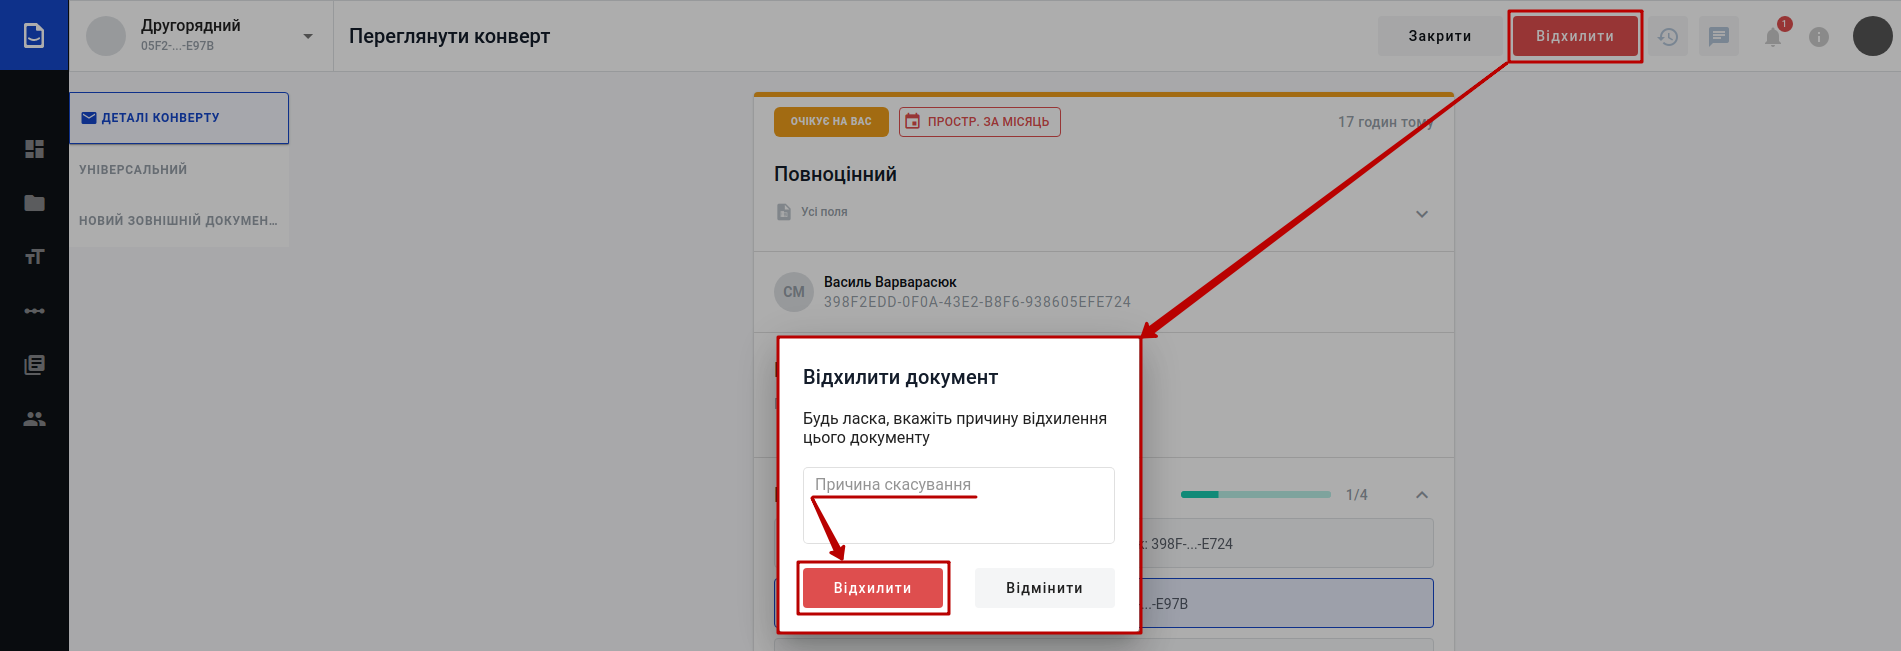
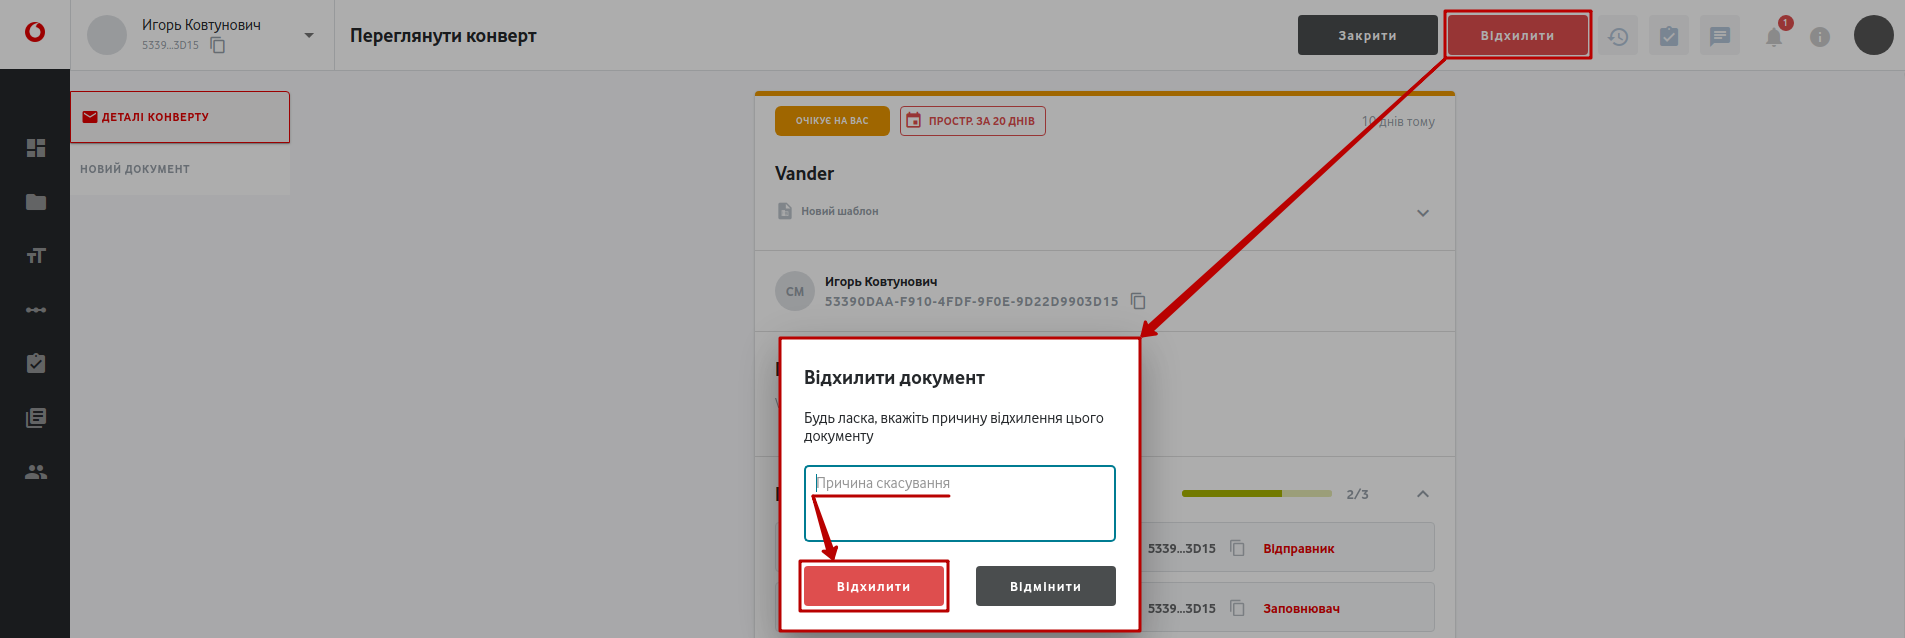
VD

diff --git a/docs/VodafoneDoc/WD_Instructions/WD_user_profile.rst b/docs/VodafoneDoc/WD_Instructions/WD_user_profile.rst
@@ -3,9 +3,9 @@
 
 .. есть картинки с главной инструкции сервиса
 
-.. |accept| image:: pics_WD_user_profile/WD_user_profile_036.png
+.. |accept| image:: pics_VD_user_profile/VD_user_profile_036.png
 
-.. |denied| image:: pics_WD_user_profile/WD_user_profile_035.png
+.. |denied| image:: pics_VD_user_profile/VD_user_profile_035.png
 
 .. role:: red
 
@@ -36,10 +36,10 @@ WEB сервісом підтримуються **Google Chrome** та **Safari*
 
 Для налаштування користувацького профілю потрібно клікнути лівою кнопкою мишки на іконку користувача та обрати **"Профіль користувача"** (`налаштування панелі адміністратора <https://wiki.edin.ua/uk/latest/VodafoneDoc/WD_Instructions/WD_admin_panel.html>`__ описані в окремій інструкції):
 
-.. image:: pics_WD_user_profile/WD_user_profile_002.png
+.. image:: pics_VD_user_profile/VD_user_profile_002.png
    :align: center
 
-.. image:: pics_WD_user_profile/WD_user_profile_003.png
+.. image:: pics_VD_user_profile/VD_user_profile_003.png
    :align: center
 
 Після чого відкривається **"Інформація профілю"**, поділена на 4 вкладки: **"Налаштування"** / **"Запрошення"** / **"Сповіщення"** / **"Небезпечна зона"** (за замовчуванням відображається вкладка "Налаштування").
@@ -49,7 +49,7 @@ WEB сервісом підтримуються **Google Chrome** та **Safari*
 **1.1 Налаштування**
 -----------------------------------------------
 
-.. image:: pics_WD_user_profile/WD_user_profile_004.png
+.. image:: pics_VD_user_profile/VD_user_profile_004.png
    :align: center
 
 В **"Налаштуваннях"** відображаються:
@@ -58,15 +58,15 @@ WEB сервісом підтримуються **Google Chrome** та **Safari*
 * **Налаштування паролю** - блок, що дозволяє **"Змінити пароль"** даного користувача, проставивши відповідну відмітку та вказавши поточний та новий пароль (з підтвердженням).
 * **Реєстрація** - блок, що дозволяє користувачу **"Зареєструвати особистий акаунт"** чи **"Зареєструвати акаунт компанії"** (детальніше про особливості `реєстрації в сервісі VodafoneDoc <https://wiki.edin.ua/uk/latest/VodafoneDoc/WD_Instructions/WD_registration.html>`__). Натиснувши відповідні кнопки можливо зареєструвати акаунт, погодившись в pop-up вікні з правилами та умовами користування сервісом та політикою конфіденційності (для акаунта компанії потрібно додатково ввести ІПН та назву мейлбокса):
 
-.. image:: pics_WD_user_profile/WD_user_profile_006.png
+.. image:: pics_VD_user_profile/VD_user_profile_006.png
    :align: center
 
-.. image:: pics_WD_user_profile/WD_user_profile_007.png
+.. image:: pics_VD_user_profile/VD_user_profile_007.png
    :align: center
 
 Всі зміни внесені у вкладці можливо **"Зберегти"** чи **"Відмінити"**:
 
-.. image:: pics_WD_user_profile/WD_user_profile_005.png
+.. image:: pics_VD_user_profile/VD_user_profile_005.png
    :align: center
 
 .. _invite:
@@ -76,12 +76,12 @@ WEB сервісом підтримуються **Google Chrome** та **Safari*
 
 У вкладці відображаються активні запрошення до мейлбокса чи аккаунта інших користувачів сервісу (запрошення відправляються з `"Панелі адміністратора" - Користувачі <https://wiki.edin.ua/uk/latest/VodafoneDoc/WD_Instructions/WD_admin_panel.html#users>`__), що потребують рішення:
 
-.. image:: pics_WD_user_profile/WD_user_profile_030.png
+.. image:: pics_VD_user_profile/VD_user_profile_030.png
    :align: center
 
 Користувач може **Прийняти** |accept| чи **Відхилити** |denied| запрошення з указаного акаунта. Після того, як користувач прийме запрошення у нього відкриється доступ до стороннього акаунта чи мейлбокса з визначеними налаштуваннями:
 
-.. image:: pics_WD_user_profile/WD_user_profile_031.png
+.. image:: pics_VD_user_profile/VD_user_profile_031.png
    :align: center
 
 .. _notifications:
@@ -89,7 +89,7 @@ WEB сервісом підтримуються **Google Chrome** та **Safari*
 **1.3 Сповіщення**
 -----------------------------------------------
 
-.. image:: pics_WD_user_profile/WD_user_profile_034.png
+.. image:: pics_VD_user_profile/VD_user_profile_034.png
    :align: center
 
 У вкладці відображаються налаштування сповіщень **по електронній пошті** та **у системі**, що розбиті на наступні групи:
@@ -157,12 +157,12 @@ WEB сервісом підтримуються **Google Chrome** та **Safari*
 
 **Небезпечна зона** - налаштування, що стосуються радикальних змін і в даному випадку ведуть до видалення конкретного користувача з сервісу VodafoneDoc.
 
-.. image:: pics_WD_user_profile/WD_user_profile_037.png
+.. image:: pics_VD_user_profile/VD_user_profile_037.png
    :align: center
 
 Дія видалення потребує підтвердження:
 
-.. image:: pics_WD_user_profile/WD_user_profile_038.png
+.. image:: pics_VD_user_profile/VD_user_profile_038.png
    :align: center
 
 Можливо зберегти акаунт та всі мейлбокси, поставивши відмітку у цьому вікні.

diff --git a/docs/VodafoneDoc/WD_Instructions/WD_admin_panel.rst b/docs/VodafoneDoc/WD_Instructions/WD_admin_panel.rst
@@ -47,7 +47,7 @@ WEB сервісом підтримуються **Google Chrome** та **Safari*
 
 ----------------------------------------------------
 
-Для проведення адміністративних налаштувань на рівні акаунта потрібно клікнути лівою кнопкою мишки на іконку користувача та обрати **"Панель адміністратора"** (`налаштування профілю користувача <https://wiki.edin.ua/uk/latest/VodafoneDoc/WD_Instructions/WD_user_profile.html>`__ описані в окремій інструкції):
+Для проведення адміністративних налаштувань на рівні акаунта потрібно клікнути лівою кнопкою мишки на іконку користувача та обрати **"Панель адміністратора"** (`налаштування профілю користувача <https://wiki.edin.ua/uk/latest/VodafoneDoc/WD_Instructions/VD_user_profile.html>`__ описані в окремій інструкції):
 
 .. image:: pics_WD_admin_panel/WD_admin_panel_001.png
    :align: center
@@ -289,7 +289,7 @@ WEB сервісом підтримуються **Google Chrome** та **Safari*
 .. image:: pics_WD_admin_panel/WD_admin_panel_027.png
    :align: center
 
-Якщо користувач, якого запросили уже користується сервісом, то йому згідно його налаштувань (ПОСИЛАННЯ) в сервіс VodafoneDoc надійде повідомлення та email, а саме запрошення буде відображатись в Інформації профілю (вкладка `Запрошення <https://wiki.edin.ua/uk/latest/VodafoneDoc/WD_Instructions/WD_user_profile.html#invite>`__):
+Якщо користувач, якого запросили уже користується сервісом, то йому згідно його налаштувань (ПОСИЛАННЯ) в сервіс VodafoneDoc надійде повідомлення та email, а саме запрошення буде відображатись в Інформації профілю (вкладка `Запрошення <https://wiki.edin.ua/uk/latest/VodafoneDoc/WD_Instructions/VD_user_profile.html#invite>`__):
 
 .. image:: pics_WD_admin_panel/WD_admin_panel_029.png
    :align: center
@@ -597,7 +597,7 @@ WEB сервісом підтримуються **Google Chrome** та **Safari*
    :align: center
 
 .. attention::
-   Видалений мейлбокс не можливо відновити. Мейлбокс зникає зі списку і якщо користувач спробує використати видалений мейлбокс, то він отримає 410 помилку і буде перенаправлений на інший мейлбокс, до якого він має доступ. Якщо користувач не має доступу до будь-якого іншого мейлбокса, то він буде переспрямований у `профіль користувача <https://wiki.edin.ua/uk/latest/VodafoneDoc/WD_Instructions/WD_user_profile.html>`__. 
+   Видалений мейлбокс не можливо відновити. Мейлбокс зникає зі списку і якщо користувач спробує використати видалений мейлбокс, то він отримає 410 помилку і буде перенаправлений на інший мейлбокс, до якого він має доступ. Якщо користувач не має доступу до будь-якого іншого мейлбокса, то він буде переспрямований у `профіль користувача <https://wiki.edin.ua/uk/latest/VodafoneDoc/WD_Instructions/VD_user_profile.html>`__. 
 
 **5 Інтеграції**
 ================================================

diff --git a/docs/VodafoneDoc/WD_Instructions/Work_with_Envelope.rst b/docs/VodafoneDoc/WD_Instructions/Work_with_Envelope.rst
@@ -136,12 +136,7 @@ WEB сервісом підтримуються **Google Chrome** та **Safari*
 **3 Відхилення конверта**
 ================================================
 
-Відправлений конверт в статусі "В обробці" чи "Очікує на вас" (на стороні поточного заповнювача/підписанта) можливо **"Відхилити"**:
-
-.. image:: pics_Work_with_Envelope/Work_with_Envelope_013.png
-   :align: center
-
-Для відхилення конверта обов'язково потрібно вказати причину відхилення і підтвердити відхилення:
+Відправлений конверт в статусі "В обробці" чи "Очікує на вас" (на стороні поточного заповнювача/підписанта) можливо **"Відхилити"**. Для відхилення конверта обов'язково потрібно вказати причину відхилення і підтвердити відхилення:
 
 .. image:: pics_Work_with_Envelope/Work_with_Envelope_014.png
    :align: center
@@ -166,7 +161,7 @@ WEB сервісом підтримуються **Google Chrome** та **Safari*
 .. image:: pics_Work_with_Envelope/Work_with_Envelope_027.png
    :align: center
 
-доступне масове завантаження конвертів з журналу документів. Для цього потрібно відмітити потрібні документи і натиснути кнопку **"Завантажити"**:
+Доступне масове завантаження конвертів з журналу документів. Для цього потрібно відмітити потрібні документи і натиснути кнопку **"Завантажити"**:
 
 .. image:: pics_Work_with_VD/Work_with_VD_141.png
    :align: center

diff --git a/docs/VodafoneDoc/WD_Instructions/WD_Instructions_list.rst b/docs/VodafoneDoc/WD_Instructions/WD_Instructions_list.rst
@@ -7,7 +7,7 @@
    WD_registration
    Work_with_VD
    Work_with_Envelope
-   WD_user_profile
+   VD_user_profile
    WD_admin_panel
 
 Розділ в процесі наповнення новими інструкціями по роботі з сервісом VodafoneDoc
